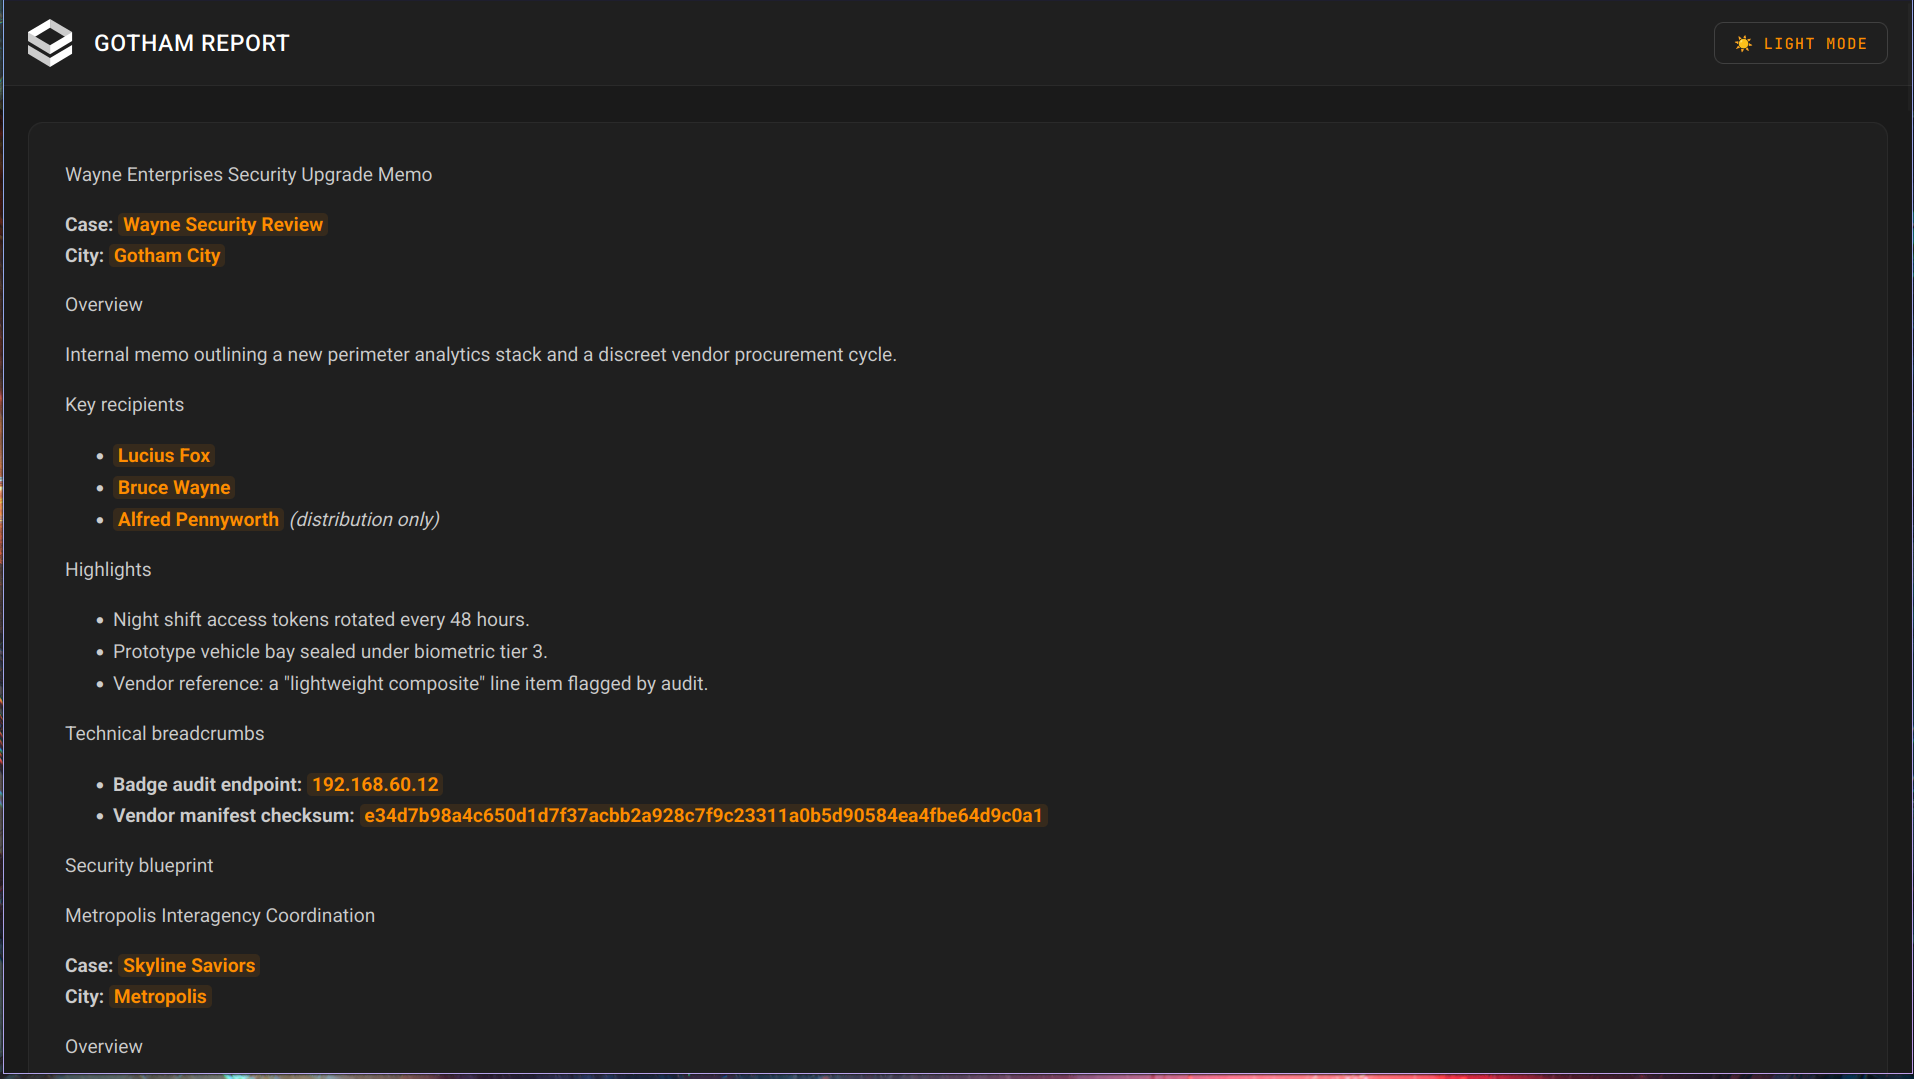
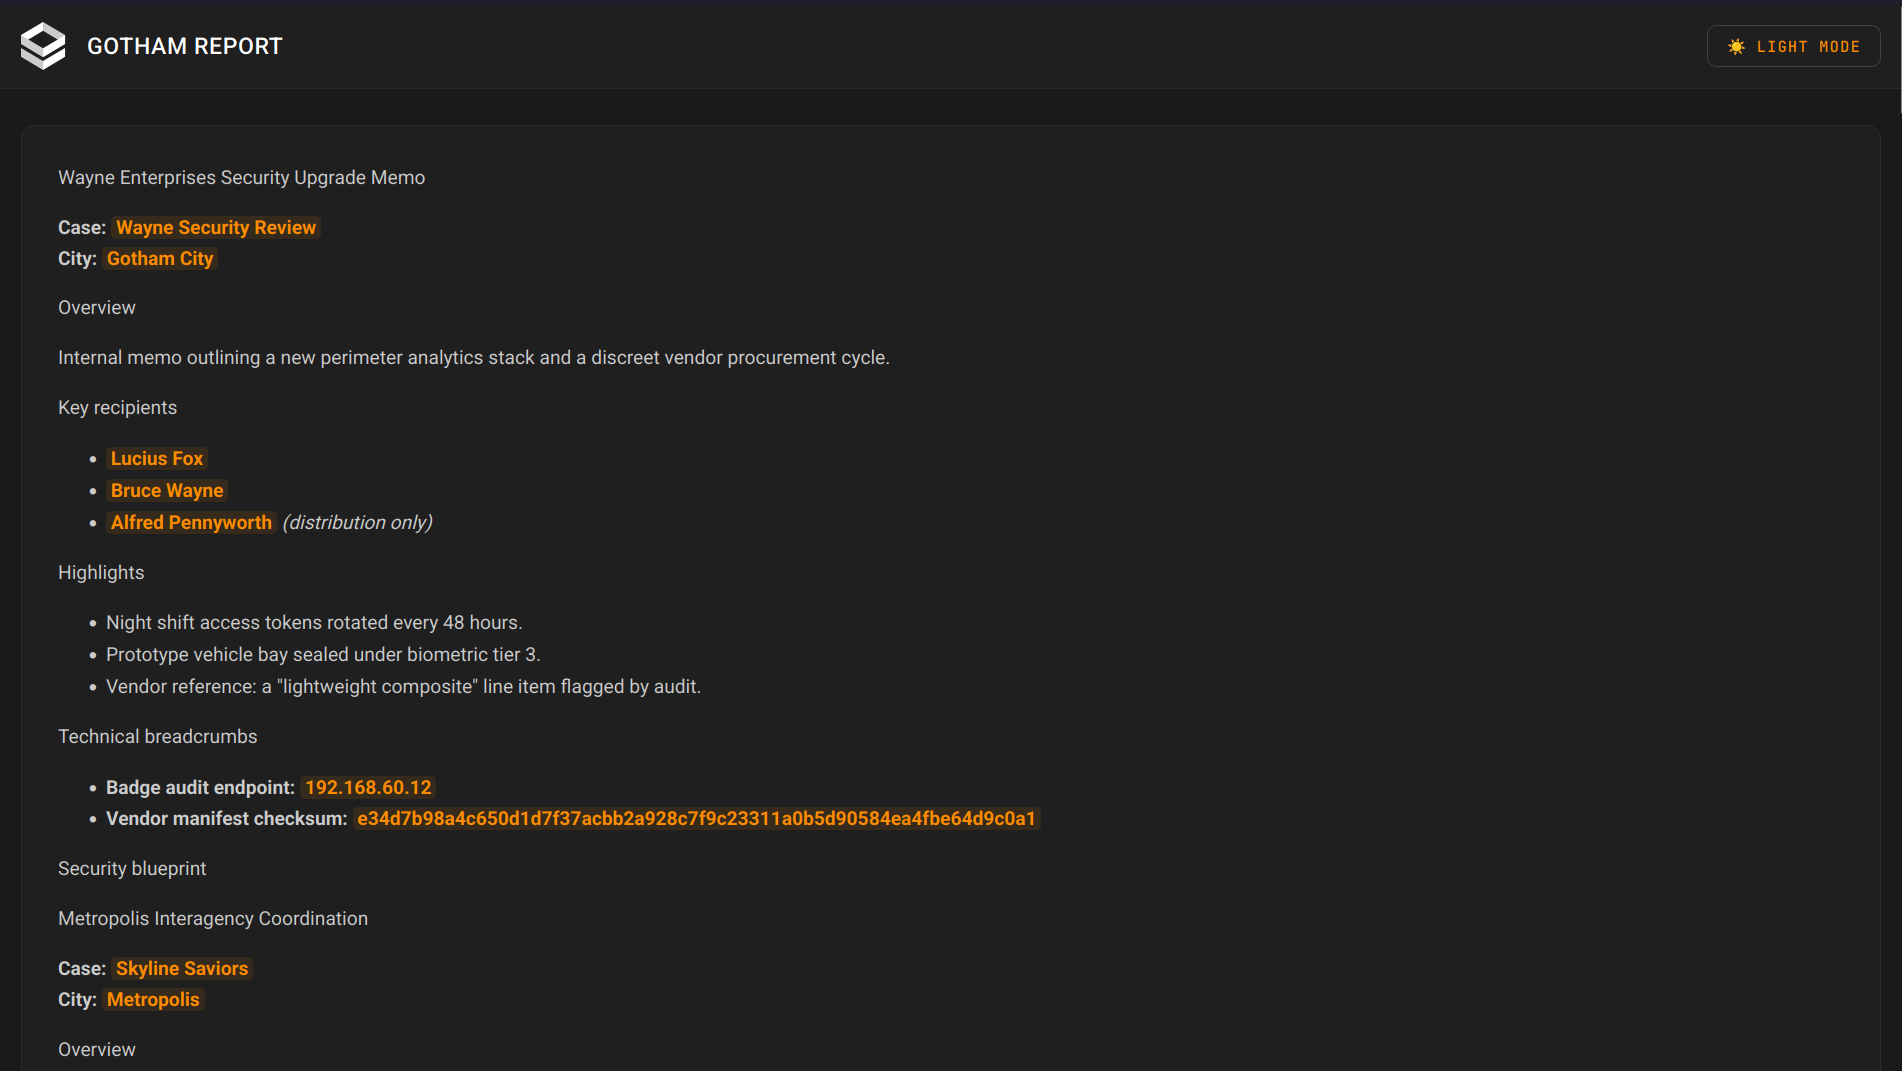
Updated docs

diff --git a/docs/content/_index.md b/docs/content/_index.md
@@ -7,8 +7,8 @@ layout = "hextra-home"
 
 {{< hextra/hero-container
   class="cradle-hero"
-  imageGallery="/images/screenshots/welcome.png|/images/screenshots/dashboard.png|/images/screenshots/editor.png|/images/screenshots/graph_bfs.png"
-  imageGalleryTitles="CRADLE Graph View|CRADLE Dashboard|CRADLE Editor|CRADLE Graph"
+  imageGallery="/images/screenshots/welcome.png|/images/screenshots/files-list.png|/images/screenshots/case-notes.png|/images/screenshots/graph-explorer.png|/images/screenshots/access-control.png|/images/screenshots/admin-panel-entry-type.png|/images/screenshots/case-relations.png|/images/screenshots/external-enrichment.png|/images/screenshots/hml-report.png"
+  imageGalleryTitles="Welcome Screen|Files List|Markdown Editor|Graph Explorer|Access Control|Admin Entry Types|Case Relations|External Enrichment|HTML Report"
   imageGalleryClass="cradle-hero-carousel"
 >}}
 {{< hextra/hero-badge link="https://github.com/prodaft/cradle/tree/v2.10.2-beta.9bd46310" >}}
@@ -45,7 +45,7 @@ Batteries-included knowledge management solution for cyber threat hunters and de
       title="Unified Case Workspace"
       subtitle="All the information you have about a case or artifact is collected in a single view, instead of being scattered accross many pages. You can save all your findings in CRADLE and let it worry about comparing with external sources."
       class="cradle-feature-card"
-      image="images/screenshots/dashboard.png"
+      image="images/screenshots/case-notes.png"
       imageClass="cradle-feature-card-image"
     >}}
   </div>
@@ -54,7 +54,7 @@ Batteries-included knowledge management solution for cyber threat hunters and de
       title="Granular Access Control"
       subtitle="Managing a team is tricky, especially if you are dealing with sensitive data. CRADLE allows you to control access policy on a case-by-case level and grant/revoke permissions with ease."
       class="cradle-feature-card"
-      image="images/screenshots/editor.png"
+      image="images/screenshots/access-control.png"
       imageClass="cradle-feature-card-image"
     >}}
   </div>
@@ -63,7 +63,7 @@ Batteries-included knowledge management solution for cyber threat hunters and de
       title="Flexible & Schema-Free"
       subtitle="Save your findings, in your way. CRADLE is here to adapt to your workflow and your needs. No more rigid forms, and predefined types. Define your own artifact types and just write down your findings in plain markdown. CRADLE will link everything for you!"
       class="cradle-feature-card"
-      image="images/screenshots/editor.png"
+      image="images/screenshots/markdown-editor.png"
       imageClass="cradle-feature-card-image"
     >}}
   </div>
@@ -72,7 +72,7 @@ Batteries-included knowledge management solution for cyber threat hunters and de
       title="Graph-Based Relationship Analysis"
       subtitle="Not all correlations are easy to spot through a textual interface. CRADLE offers a strong graph visualization of your data so you can find hidden connections between cases."
       class="cradle-feature-card"
-      image="images/screenshots/graph_bfs.png"
+      image="images/screenshots/graph-explorer.png"
       imageClass="cradle-feature-card-image"
     >}}
   </div>
@@ -81,7 +81,7 @@ Batteries-included knowledge management solution for cyber threat hunters and de
       title="Effortless Reporting & Sharing"
       subtitle="Say goodbye to writing reports. Share your findings accross teams easily with CRADLE's reporting functionality, by either sending a beautiful HTML report or a data pack that can be ported accross CRADLE instances."
       class="cradle-feature-card"
-      image="images/screenshots/reports.png"
+      image="images/screenshots/hml-report.png"
       imageClass="cradle-feature-card-image"
     >}}
   </div>

diff --git a/docs/content/docs/_index.md b/docs/content/docs/_index.md
@@ -10,6 +10,19 @@ Welcome to the CRADLE documentation. This site is organized into two main parts:
 User Guide (for analysts and administrators) and Developer Guide (backend and
 frontend).
 
+{{< hextra/hero-container
+  imageGallery="/images/screenshots/welcome.png|/images/screenshots/graph-explorer.png|/images/screenshots/case-notes.png|/images/screenshots/access-control.png"
+  imageGalleryTitles="Welcome Screen|Graph Explorer|Case Notes|Access Control"
+  imageGalleryClass="cradle-hero-carousel"
+>}}
+{{< hextra/hero-headline >}}
+  Explore CRADLE in action
+{{< /hextra/hero-headline >}}
+{{< hextra/hero-subtitle >}}
+  A quick visual tour of key workflows you'll find documented below.
+{{< /hextra/hero-subtitle >}}
+{{< /hextra/hero-container >}}
+
 {{< cards >}}
 {{< card link="getting-started" title="Getting Started" icon="document-text" subtitle="Run a local demo in minutes" >}}
 {{< card link="user-guide" title="User Guide" icon="document-text" subtitle="Analyst and administrator workflows" >}}
